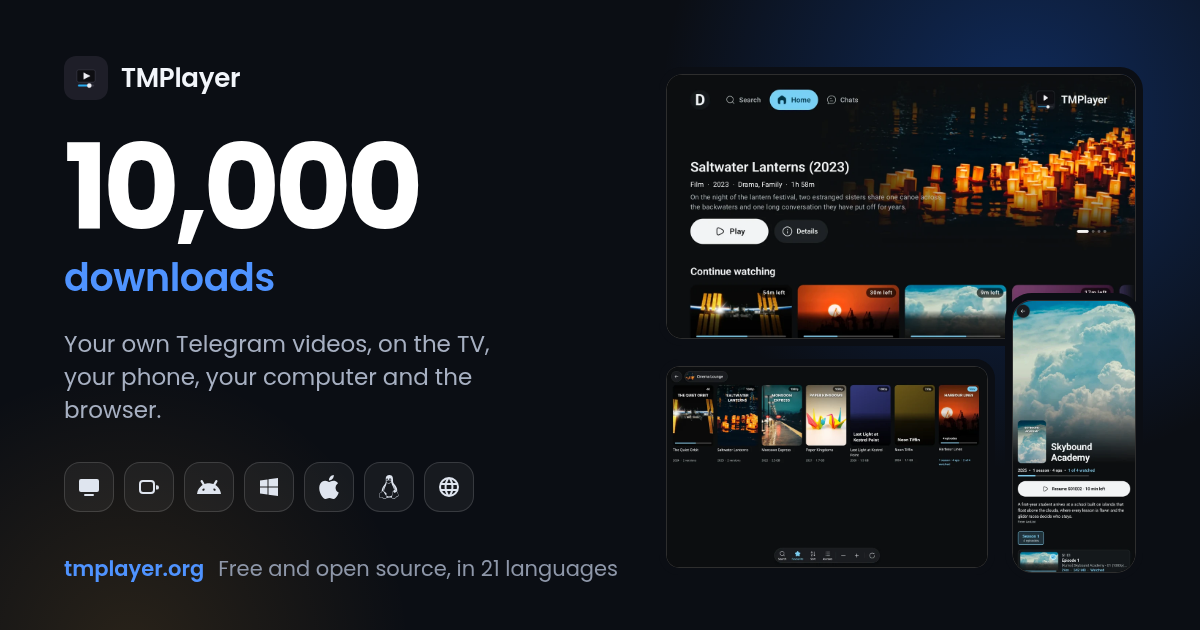
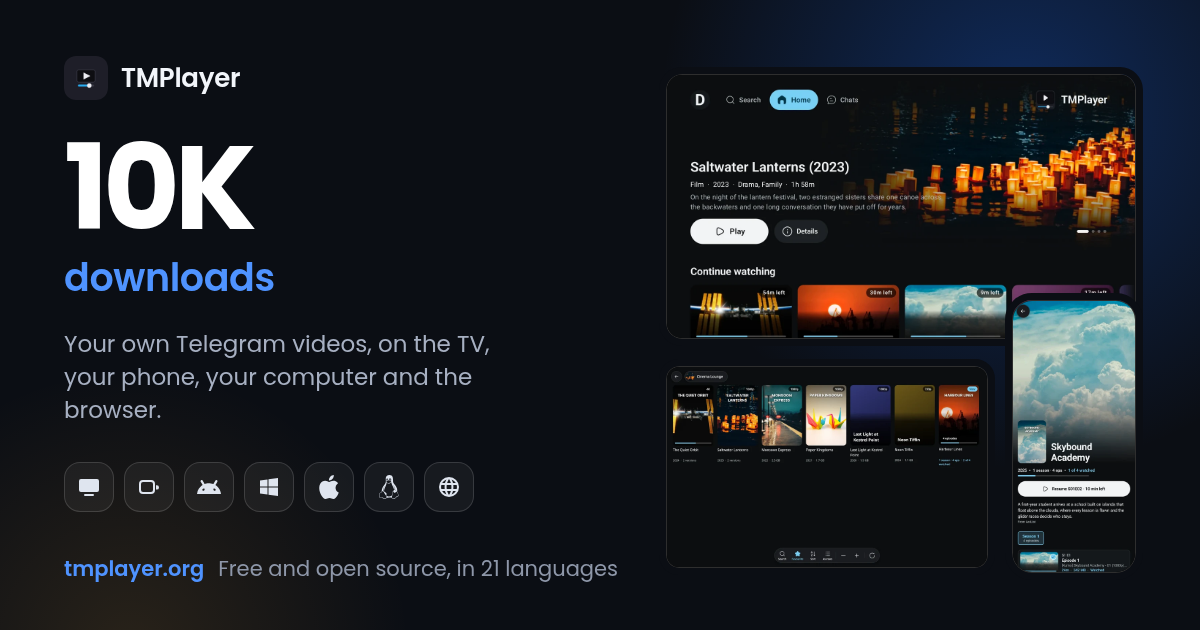
Site: the 10K downloads card says 10K, as the stats row rounds it

Changed region(s): [[0.1233, 0.2111, 0.37, 0.3921]]

diff --git a/scripts/social-card-milestone-10k.html b/scripts/social-card-milestone-10k.html
@@ -2,7 +2,7 @@
 <html lang="en">
 <head>
 <meta charset="utf-8">
-<title>TMPlayer: 10,000 downloads</title>
+<title>TMPlayer: 10K downloads</title>
 <style>
   @font-face { font-family: Poppins; src: url('../site/public/fonts/poppins-400.woff2') format('woff2'); font-weight: 400; }
   @font-face { font-family: Poppins; src: url('../site/public/fonts/poppins-500.woff2') format('woff2'); font-weight: 500; }
@@ -73,7 +73,7 @@
       <img src="../site/public/icon-512.png" alt="">
       <span>TMPlayer</span>
     </div>
-    <div class="count">10,000</div>
+    <div class="count">10K</div>
     <div class="count-word">downloads</div>
     <div class="line">Your own Telegram videos, on the TV, your phone, your computer and the browser.</div>
     <div class="tiles">
